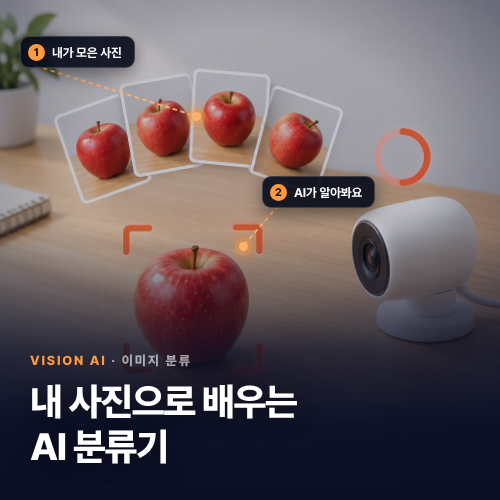
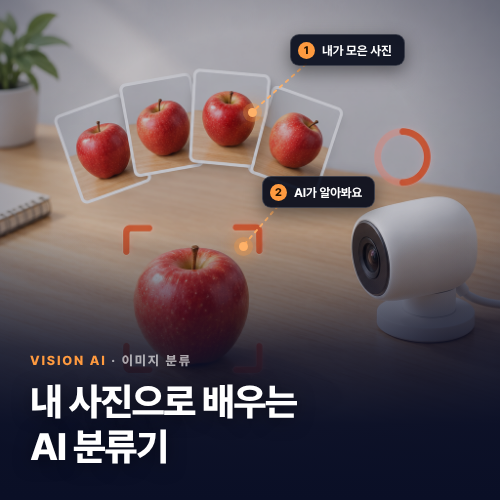
fix(assets): 콜아웃 ① 이 카드 배지에 가려지던 문제
썸네일 좌상단은 카드가 '이용권 미보유' 배지를 덮어쓰는 자리다.
① 말풍선이 거기 있어 실제 카드에서 통째로 가려졌다. 우상단으로 옮긴다.
규격서의 좌표도 함께 맞춘다.

Claude-Session: https://claude.ai/code/session_01XGeah6BaTAiLVuAQZcrELm

diff --git a/tools/thumbnail/overlay.js b/tools/thumbnail/overlay.js
@@ -9,7 +9,7 @@ const CONFIG = {
     eyebrow: { amber: 'VISION AI', rest: ' · 이미지 분류' },
     title: ['내 사진으로 배우는', 'AI 분류기'],
     callouts: [
-      { n: '1', text: '내가 모은 사진', px: 20, py: 36, tx: 196, ty: 116 },
+      { n: '1', text: '내가 모은 사진', px: 290, py: 34, tx: 252, ty: 112 },
       { n: '2', text: 'AI가 알아봐요', px: 262, py: 176, tx: 243, ty: 246 },
     ],
   },

diff --git a/tools/thumbnail/SPEC.md b/tools/thumbnail/SPEC.md
@@ -143,7 +143,7 @@
 카테고리   VISION AI · 이미지 분류
 제목       내 사진으로 배우는 / AI 분류기
 
-콜아웃 ①  "내가 모은 사진"   말풍선 (20, 36)    지시점 (196, 116)
+콜아웃 ①  "내가 모은 사진"   말풍선 (290, 34)   지시점 (252, 112)
 콜아웃 ②  "AI가 알아봐요"    말풍선 (262, 176)  지시점 (243, 246)
 ```
 
